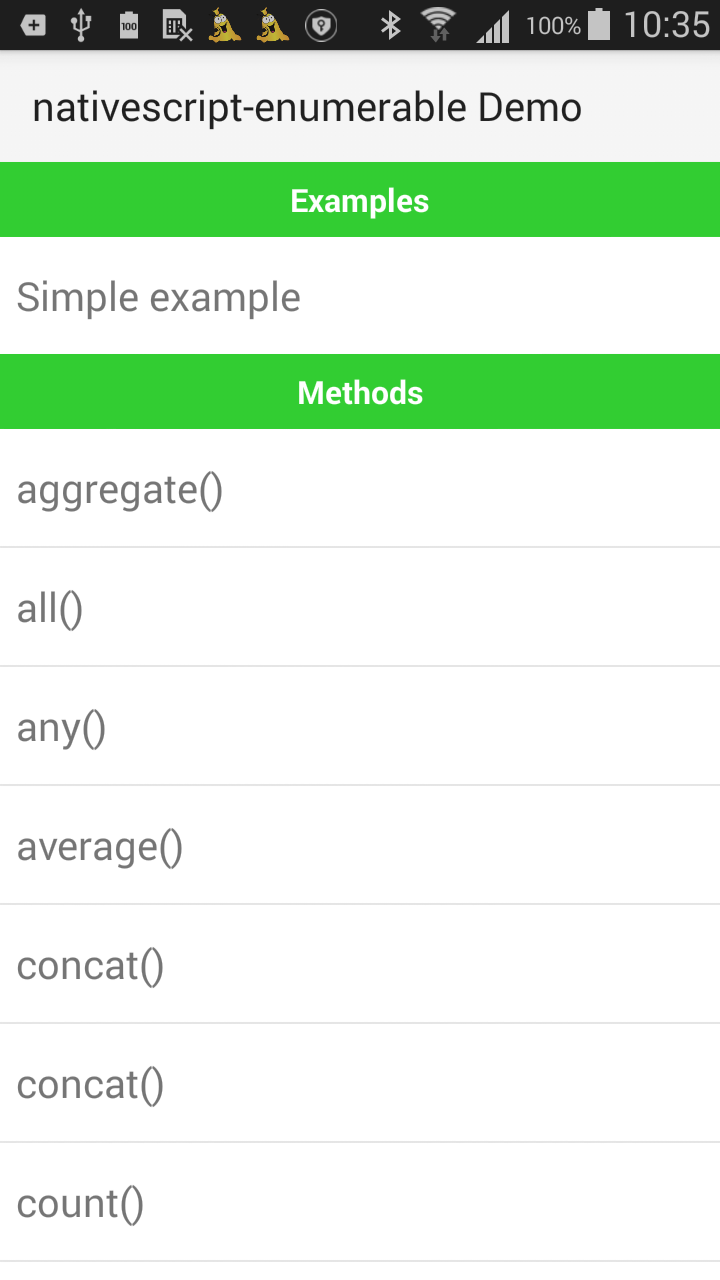
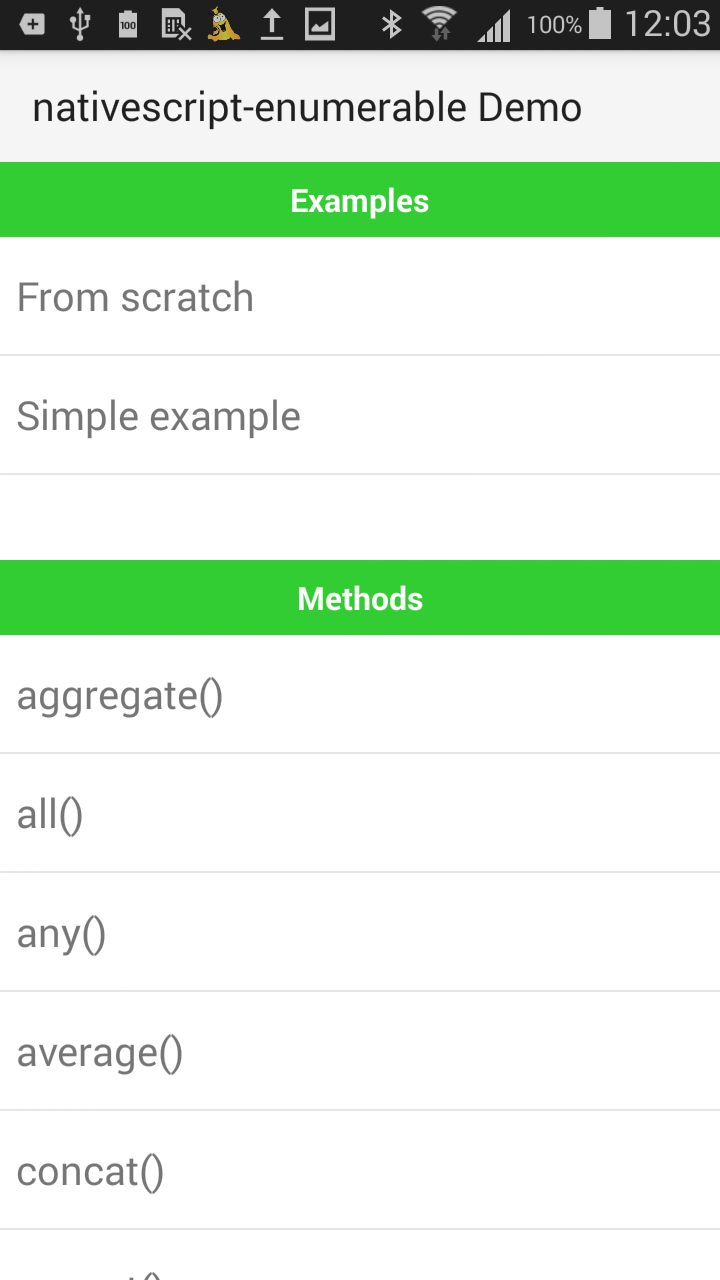
added "From scratch" menu item

diff --git a/demo/app/main-view-model.js b/demo/app/main-view-model.js
@@ -861,6 +861,13 @@ seq.each(function(x) {
 
     var examples = [];
     
+    // from scratch
+    examples.push({
+        title: 'From scratch',
+        sourceCode: ``
+    });
+    
+    // Simple example
     examples.push({
         title: 'Simple example',
         sourceCode: `        
